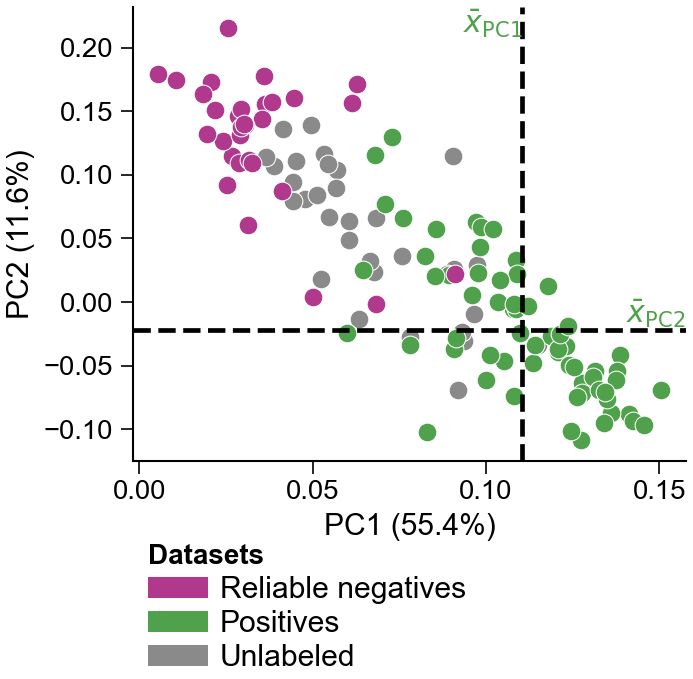
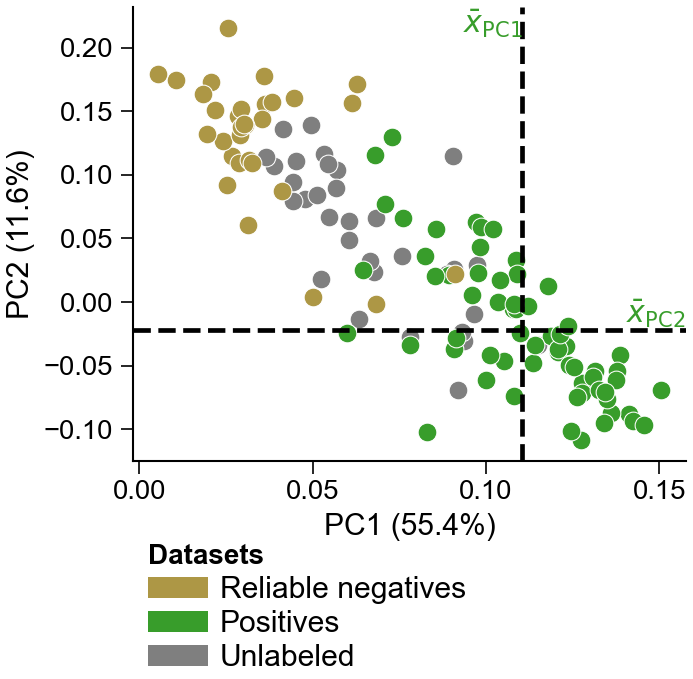
docs(cheatsheet): rename Feature Concept, fix dPULearn label semantics/colors, reorder panels
- Rename "Feature Ontology" panel to "CPP Feature Concept"; glossary "Feature" -> "Feature (CPP)".
- Move PU/label group chips under Prediction Task Levels with a "Groups:" label
  and an Output-types line; split the legend into negatives (magenta, COLOR_NEG)
  vs reliable negatives (gold, COLOR_REL_NEG) to match the package color constants.
- Fix dPULearn worked example: PU-encode labels (1/2) and use n_pos//2; drop the
  gen_plots.py magenta override so the PCA uses the canonical gold default;
  regenerate pca.png.
- Order capability families + module chooser along the analysis flow
  (Sequence Analysis -> Feature Engineering -> Modeling; dPULearn -> TreeModel -> ShapModel);
  add AAWindowSampler to the chooser.
- Drop "v1.1" overclaim from Protein Design; "Numerical" -> "Advanced Feature Sources";
  mark the SHAP example advanced; bracket [v1.1] statuses in the class table.

diff --git a/docs/source/_static/cheat_sheet.html b/docs/source/_static/cheat_sheet.html
@@ -34,10 +34,13 @@
   /* package TMD/JMD colours (ut.COLOR_TMD / ut.COLOR_JMD) */
   --c-tmd:   #00FA9A;
   --c-jmd:   #0000FF;
-  /* dPULearn label colours (chips + the dPULearnPlot.pca legend match) */
-  --c-pos:    #4FA24B;
-  --c-relneg: #B0398E;
-  --c-unl:    #8A8A8A;
+  /* Sample/label colours — match the package constants in utils.py
+     (COLOR_POS / COLOR_NEG / COLOR_REL_NEG / COLOR_UNL) and the
+     dPULearnPlot.pca legend. */
+  --c-pos:    #389d2b;
+  --c-neg:    #ad4570;
+  --c-relneg: #ad9745;
+  --c-unl:    #7f7f7f;
   /* neutral pill for non-relational tags */
   --pill-bg:  #8a93a0;
 }
@@ -206,10 +209,12 @@ table { width: 100%; border-collapse: collapse; }
 .anat-track .tmd { background: var(--c-tmd); color: #143b2a; flex: 1 1 auto; }
 .anat-coords { display: flex; justify-content: space-between; font-family: "AA Mono", monospace;
                font-size: 5.6pt; color: var(--ink-faint); }
-.chips { margin-top: 3px; }
+.chips { margin-top: 1px; }
+.chips .chips-label { font-size: 5.6pt; font-weight: 700; color: var(--ink-soft); margin-right: 4px; }
 .chips .chip { display: inline-block; font-size: 5.6pt; font-weight: 700; color: #fff;
                padding: 0 4px; border-radius: 6px; margin-right: 3px; }
-.chip.pos { background: var(--c-pos); } .chip.neg { background: var(--c-relneg); } .chip.unl { background: var(--c-unl); }
+.chip.pos { background: var(--c-pos); } .chip.neg { background: var(--c-neg); }
+.chip.relneg { background: var(--c-relneg); } .chip.unl { background: var(--c-unl); }
 
 /* ---- citations / glossary / misc ---------------------------------------- */
 .cite-item { padding: 2px 0; border-bottom: 1px solid var(--line-soft); }
@@ -311,6 +316,9 @@ df_scales = <span class="c-nm">aa.load_scales</span>()</pre></div>
           <div class="row"><b>unit:</b> whole chain (composition)</div>
           <div class="row"><b>ref:</b> labelled groups / composition-matched background</div>
         </div>
+        <div class="cap"><b>Output types:</b> classification · regression · ranking · explanation</div>
+        <div class="chips"><span class="chips-label">Groups:</span><span class="chip pos">1: positives</span><span class="chip neg">0: negatives</span><span class="chip relneg">0: reliable negatives</span><span class="chip unl">2: unlabeled</span></div>
+        <div class="cap">Label 0 is a curated <b>negative</b> in labelled data, or a dPULearn-inferred <b>reliable negative</b> drawn from the unlabeled (2) pool.</div>
       </div>
     </div>
 
@@ -321,12 +329,11 @@ df_scales = <span class="c-nm">aa.load_scales</span>()</pre></div>
         <div class="anat-track"><div class="seg jmd">JMD-N</div><div class="seg tmd">TMD</div><div class="seg jmd">JMD-C</div></div>
         <div class="anat-coords"><span>0</span><span>tmd_start</span><span>tmd_stop</span><span>len(seq)</span></div>
         <div class="cap">JMD widths set globally: aa.options[&#39;jmd_n_len&#39;] · [&#39;jmd_c_len&#39;].</div>
-        <div class="chips"><span class="chip pos">1: positives</span><span class="chip neg">0: rel-negatives</span><span class="chip unl">2: unlabeled</span></div>
       </div>
     </div>
 
     <div class="sec">
-      <div class="sec-h"><span>Feature Ontology</span><span class="hint">Part × Split × Scale</span></div>
+      <div class="sec-h"><span>CPP Feature Concept</span><span class="hint">Part × Split × Scale</span></div>
       <div class="sec-body">
         <div class="onto-row"><span class="h">PART</span> <span class="s">where on the sequence</span>
           <div class="it">tmd · jmd_n · jmd_c · tmd_jmd · jmd_n_tmd_n · tmd_c_jmd_c</div></div>
@@ -363,8 +370,9 @@ cpp = <span class="c-nm">aa.CPP</span>(df_parts=df_parts, split_kws=split_kws)</
       <div class="sec-h"><span>Which Module Should I Use?</span><span class="hint">intent → module</span></div>
       <div class="sec-body">
         <div class="cap-item"><span class="cw">Explore sequence patterns / composition →</span><span class="cs">AAlogo · AAlogoPlot</span></div>
-        <div class="cap-item"><span class="cw">Discover discriminative physicochemical features →</span><span class="cs">CPP · CPPPlot</span></div>
+        <div class="cap-item"><span class="cw">Sample reference windows (if negatives are missing) →</span><span class="cs">AAWindowSampler</span></div>
         <div class="cap-item"><span class="cw">Reduce redundant amino acid scales →</span><span class="cs">AAclust</span></div>
+        <div class="cap-item"><span class="cw">Discover discriminative physicochemical features →</span><span class="cs">CPP · CPPPlot</span></div>
         <div class="cap-item"><span class="cw">Train with positives + unlabeled data →</span><span class="cs">dPULearn</span></div>
         <div class="cap-item"><span class="cw">Train an interpretable classifier →</span><span class="cs">TreeModel</span></div>
         <div class="cap-item"><span class="cw">Explain a prediction (per feature / sample) →</span><span class="cs">ShapModel  [pro]</span></div>
@@ -382,6 +390,14 @@ cpp = <span class="c-nm">aa.CPP</span>(df_parts=df_parts, split_kws=split_kws)</
     <div class="cap-item"><span class="cw">Cluster redundant homologs</span><span class="cs">filter_seq(df_seq)  [pro]</span></div>
   </div>
 </div><div class="sec">
+  <div class="sec-h"><span>Sequence Analysis</span><span class="hint">logos · motifs</span></div>
+  <div class="sec-body">
+    <div class="cap-item"><span class="cw">Position-specific logo</span><span class="cs">AAlogo().get_df_logo(df_parts)</span></div>
+    <div class="cap-item"><span class="cw">Sample sequence windows</span><span class="cs">AAWindowSampler().sample(df_seq)</span></div>
+    <div class="cap-item"><span class="cw">Pairwise sequence similarity</span><span class="cs">comp_seq_sim(df_seq)  [pro]</span></div>
+    <div class="cap-item"><span class="cw">Scan motifs (FIMO / MEME)</span><span class="cs">scan_motif(df_seq, pwm)  [pro]</span></div>
+  </div>
+</div><div class="sec">
   <div class="sec-h"><span>Feature Engineering</span><span class="hint">parts · CPP · scales</span></div>
   <div class="sec-body">
     <div class="cap-item"><span class="cw">SequenceFeature  →  sf</span><span class="cs">sf = aa.SequenceFeature()</span></div>
@@ -394,7 +410,7 @@ cpp = <span class="c-nm">aa.CPP</span>(df_parts=df_parts, split_kws=split_kws)</
     <div class="cap-item"><span class="cw">Drop correlated features</span><span class="cs">NumericalFeature().filter_correlation(X)</span></div>
   </div>
 </div><div class="sec">
-  <div class="sec-h"><span>Numerical Feature Sources <span class="uc new">v1.1</span></span><span class="hint">PLM · structure · PTM</span></div>
+  <div class="sec-h"><span>Advanced Feature Sources <span class="uc new">v1.1</span></span><span class="hint">PLM · structure · PTM → numerical CPP</span></div>
   <div class="sec-body">
     <div class="cap-item"><span class="cw">PLM embeddings</span><span class="cs">EmbeddingPreprocessor().encode(...) → <span class="out">dict_num</span></span></div>
     <div class="cap-item"><span class="cw">Structure / DSSP / PAE</span><span class="cs">StructurePreprocessor().encode_dssp(...)  [pro]</span></div>
@@ -406,17 +422,9 @@ cpp = <span class="c-nm">aa.CPP</span>(df_parts=df_parts, split_kws=split_kws)</
 </div><div class="sec">
   <div class="sec-h"><span>Modeling &amp; Explainability</span><span class="hint"></span></div>
   <div class="sec-body">
+    <div class="cap-item"><span class="cw">Train with positives + unlabeled data</span><span class="cs">dPULearn().fit(X, labels)  [Wrapper]</span></div>
     <div class="cap-item"><span class="cw">Train + RFE + MC importance</span><span class="cs">TreeModel().fit(X, labels)  [Wrapper]</span></div>
-    <div class="cap-item"><span class="cw">Train with positives + unlabeled</span><span class="cs">dPULearn().fit(X, labels)  [Wrapper]</span></div>
     <div class="cap-item"><span class="cw">Per-feature / sample SHAP impact</span><span class="cs">ShapModel().fit(X, labels)  [pro]</span></div>
-  </div>
-</div><div class="sec">
-  <div class="sec-h"><span>Sequence Analysis</span><span class="hint">logos · motifs</span></div>
-  <div class="sec-body">
-    <div class="cap-item"><span class="cw">Position-specific logo</span><span class="cs">AAlogo().get_df_logo(df_parts)</span></div>
-    <div class="cap-item"><span class="cw">Sample sequence windows</span><span class="cs">AAWindowSampler().sample(df_seq)</span></div>
-    <div class="cap-item"><span class="cw">Pairwise sequence similarity</span><span class="cs">comp_seq_sim(df_seq)  [pro]</span></div>
-    <div class="cap-item"><span class="cw">Scan motifs (FIMO / MEME)</span><span class="cs">scan_motif(df_seq, pwm)  [pro]</span></div>
   </div>
 </div><div class="sec">
   <div class="sec-h"><span>Metrics &amp; Plotting</span><span class="hint">utilities</span></div>
@@ -428,7 +436,7 @@ cpp = <span class="c-nm">aa.CPP</span>(df_parts=df_parts, split_kws=split_kws)</
     <div class="cap-item"><span class="cw">Colours &amp; standalone legend</span><span class="cs">plot_get_clist(n) · plot_legend(ax)</span></div>
   </div>
 </div><div class="sec">
-  <div class="sec-h"><span>Protein Design <span class="uc">(to be extended)</span> <span class="uc new">v1.1</span></span><span class="hint"></span></div>
+  <div class="sec-h"><span>Protein Design <span class="uc">(to be extended)</span></span><span class="hint"></span></div>
   <div class="sec-body">
     <div class="cap-item"><span class="cw">In-silico point mutations</span><span class="cs">AAMut · AAMutPlot</span></div>
     <div class="cap-item"><span class="cw">Sequence-design libraries</span><span class="cs">SeqMut · SeqMutPlot</span></div>
@@ -505,9 +513,10 @@ plt.tight_layout(); plt.show()</pre>
 <div class="pair-imgs" style="--ph:44mm">
 <figure><img class="pair-img" src="cs_plots/feature_map.png" alt="CPP — feature map"><figcaption>CPPPlot.feature_map · all scales</figcaption></figure><figure><img class="pair-img" src="cs_plots/feature_map_simplified.png" alt="CPP — feature map"><figcaption>CPPPlot.feature_map · simplified</figcaption></figure>    </div>  </div>
 </div><div class="sec">
-  <div class="sec-h"><span>ShapModel — explain a prediction</span><span class="hint">sample level · [pro]</span></div>
+  <div class="sec-h"><span>ShapModel — explain a prediction</span><span class="hint">sample level · advanced · [pro]</span></div>
   <div class="sec-body">
-    <pre class="code"><span class="c-cm"># fuzzy labeling: APP&#x27;s label is its soft prediction score (0.6, not 1)</span>
+    <pre class="code"><span class="c-cm"># advanced: per-sample explanation (fuzzy labeling demo)</span>
+<span class="c-cm"># fuzzy labeling: APP&#x27;s label is its soft prediction score (0.6, not 1)</span>
 i = list(df_seq[<span class="c-st">&#x27;entry&#x27;</span>]).index(<span class="c-st">&#x27;P05067&#x27;</span>)   <span class="c-cm"># APP</span>
 y = [float(v) for v in labels]; y[i] = 0.6
 sm = <span class="c-nm">aa.ShapModel</span>(); sm.fit(X, labels=y, fuzzy_labeling=True)
@@ -533,14 +542,15 @@ aac_plot.centers(X, labels=aac.labels_)
 plt.tight_layout(); plt.show()</pre>
     <div class="pair-note">▼ figure below · left</div></div>
   <div class="sec-h"><span>dPULearn — PCA</span><span class="hint">reliable negatives · Wrapper</span></div>
-  <div class="sec-body"><pre class="code"><span class="c-cm"># labels: 1 = positive, 2 = unlabeled</span>
-n_pos = sum(np.array(labels) == 1)
+  <div class="sec-body"><pre class="code"><span class="c-cm"># DOM_GSEC ships 1/0 — encode as PU labels: 1 = positive, 2 = unlabeled</span>
+labels_pu = [1 if x == 1 else 2 for x in labels]
+n_pos = sum(np.array(labels_pu) == 1)
 dpul = <span class="c-nm">aa.dPULearn</span>()
-dpul.fit(X=X, labels=labels, n_unl_to_neg=n_pos)
+dpul.fit(X=X, labels=labels_pu, n_unl_to_neg=n_pos // 2)
 df_pu = dpul.df_pu_   <span class="c-cm"># 1 pos · 0 rel-neg · 2 unl</span>
 
 dpul_plot = <span class="c-nm">aa.dPULearnPlot</span>()
-dpul_plot.pca(df_pu=df_pu, labels=labels)
+dpul_plot.pca(df_pu=df_pu, labels=dpul.labels_)
 plt.tight_layout(); plt.show()</pre>
     <div class="pair-note">▼ figure below · right</div></div>
   <div class="pair-imgs" style="--ph:37mm">
@@ -599,7 +609,7 @@ plt.tight_layout(); plt.show()</pre></div>
     <div class="sec">
       <div class="sec-h"><span>Class ↔ Plot Class</span><span class="hint">mirrored API</span></div>
       <div class="sec-body"><table class="kv">
-<tr><td class="k">SequencePreprocessor</td><td class="d mono">—</td><td class="d" style="text-align:right"></td></tr><tr><td class="k">EmbeddingPreprocessor</td><td class="d mono">—</td><td class="d" style="text-align:right">v1.1</td></tr><tr><td class="k">StructurePreprocessor  [pro]</td><td class="d mono">—</td><td class="d" style="text-align:right">v1.1</td></tr><tr><td class="k">AnnotationPreprocessor  [pro]</td><td class="d mono">—</td><td class="d" style="text-align:right">v1.1</td></tr><tr><td class="k">CPP</td><td class="d mono">CPPPlot</td><td class="d" style="text-align:right"></td></tr><tr><td class="k">AAclust</td><td class="d mono">AAclustPlot</td><td class="d" style="text-align:right">Wrapper</td></tr><tr><td class="k">AAlogo</td><td class="d mono">AAlogoPlot</td><td class="d" style="text-align:right"></td></tr><tr><td class="k">dPULearn</td><td class="d mono">dPULearnPlot</td><td class="d" style="text-align:right">Wrapper</td></tr><tr><td class="k">TreeModel</td><td class="d mono">—</td><td class="d" style="text-align:right">Wrapper</td></tr><tr><td class="k">ShapModel  [pro]</td><td class="d mono">—</td><td class="d" style="text-align:right">Wrapper</td></tr><tr><td class="k">AAMut</td><td class="d mono">AAMutPlot</td><td class="d" style="text-align:right">to be extended</td></tr><tr><td class="k">SeqMut</td><td class="d mono">SeqMutPlot</td><td class="d" style="text-align:right">to be extended</td></tr><tr><td class="k">AAWindowSampler</td><td class="d mono">—</td><td class="d" style="text-align:right"></td></tr><tr><td class="k">SequenceFeature</td><td class="d mono">—</td><td class="d" style="text-align:right"></td></tr><tr><td class="k">NumericalFeature</td><td class="d mono">—</td><td class="d" style="text-align:right"></td></tr>      </table></div>
+<tr><td class="k">SequencePreprocessor</td><td class="d mono">—</td><td class="d" style="text-align:right"></td></tr><tr><td class="k">EmbeddingPreprocessor</td><td class="d mono">—</td><td class="d" style="text-align:right">[v1.1]</td></tr><tr><td class="k">StructurePreprocessor  [pro]</td><td class="d mono">—</td><td class="d" style="text-align:right">[v1.1]</td></tr><tr><td class="k">AnnotationPreprocessor  [pro]</td><td class="d mono">—</td><td class="d" style="text-align:right">[v1.1]</td></tr><tr><td class="k">CPP</td><td class="d mono">CPPPlot</td><td class="d" style="text-align:right"></td></tr><tr><td class="k">AAclust</td><td class="d mono">AAclustPlot</td><td class="d" style="text-align:right">Wrapper</td></tr><tr><td class="k">AAlogo</td><td class="d mono">AAlogoPlot</td><td class="d" style="text-align:right"></td></tr><tr><td class="k">dPULearn</td><td class="d mono">dPULearnPlot</td><td class="d" style="text-align:right">Wrapper</td></tr><tr><td class="k">TreeModel</td><td class="d mono">—</td><td class="d" style="text-align:right">Wrapper</td></tr><tr><td class="k">ShapModel  [pro]</td><td class="d mono">—</td><td class="d" style="text-align:right">Wrapper</td></tr><tr><td class="k">AAMut</td><td class="d mono">AAMutPlot</td><td class="d" style="text-align:right">to be extended</td></tr><tr><td class="k">SeqMut</td><td class="d mono">SeqMutPlot</td><td class="d" style="text-align:right">to be extended</td></tr><tr><td class="k">AAWindowSampler</td><td class="d mono">—</td><td class="d" style="text-align:right"></td></tr><tr><td class="k">SequenceFeature</td><td class="d mono">—</td><td class="d" style="text-align:right"></td></tr><tr><td class="k">NumericalFeature</td><td class="d mono">—</td><td class="d" style="text-align:right"></td></tr>      </table></div>
     </div>
 
     <div class="sec">
@@ -621,7 +631,7 @@ plt.tight_layout(); plt.show()</pre></div>
     <div class="sec gloss-wide">
       <div class="sec-h"><span>Glossary</span><span class="hint">canonical vocabulary · CONTEXT.md</span></div>
       <div class="sec-body gloss-cols">
-<div class="gloss-item"><b>Prediction level</b> — Residue (AA_*) · Domain (DOM_*) · Protein (SEQ_*) — the unit a task predicts at; sets the dataset, the part, and the reference.</div><div class="gloss-item"><b>Part</b> — Named segment used as feature input: tmd, jmd_n, jmd_c, tmd_jmd, jmd_n_tmd_n, tmd_c_jmd_c.</div><div class="gloss-item"><b>Split</b> — How a scale is read across a part: Segment (contiguous), Pattern (sparse), PeriodicPattern (i, i+3/4).</div><div class="gloss-item"><b>Scale</b> — AA → ℝ mapping. AAontology ships ~600 curated scales in two-level categories.</div><div class="gloss-item"><b>Feature</b> — (Part × Split × Scale) — the atomic, residue-grounded, interpretable unit of CPP.</div><div class="gloss-item"><b>Compositional vs positional</b> — How split_kws resolves locality: a whole-part average (compositional) vs sub-region/position-resolved (positional).</div><div class="gloss-item"><b>df_seq</b> — Sequence table: entry, sequence, label, TMD bounds (tmd_start, tmd_stop).</div><div class="gloss-item"><b>df_parts</b> — Wide table — one column per part (tmd, jmd_n, jmd_c, …).</div><div class="gloss-item"><b>df_feat</b> — Ranked features: feature, abs_auc, mean_dif, p_val, positions, scale, category.</div><div class="gloss-item"><b>Wrapper</b> — sklearn-style class — .fit / .predict / .eval, sets trailing *_ attributes after fit.</div><div class="gloss-item"><b>Plot class</b> — *Plot mirror of an analytical class — same arguments, visualization only.</div><div class="gloss-item"><b>PU labels</b> — dPULearn input: 1 = positive, 2 = unlabeled. Output: 1 / 0 (reliable-negative) / 2.</div><div class="gloss-item"><b>CPP</b> — Comparative Physicochemical Profiling — discovers ranked Part × Split × Scale features.</div><div class="gloss-item"><b>AAontology</b> — Two-level scale taxonomy; CPP uses its categories to organize and rank features.</div>      </div>
+<div class="gloss-item"><b>Prediction level</b> — Residue (AA_*) · Domain (DOM_*) · Protein (SEQ_*) — the unit a task predicts at; sets the dataset, the part, and the reference.</div><div class="gloss-item"><b>Part</b> — Named segment used as feature input: tmd, jmd_n, jmd_c, tmd_jmd, jmd_n_tmd_n, tmd_c_jmd_c.</div><div class="gloss-item"><b>Split</b> — How a scale is read across a part: Segment (contiguous), Pattern (sparse), PeriodicPattern (i, i+3/4).</div><div class="gloss-item"><b>Scale</b> — AA → ℝ mapping. AAontology ships ~600 curated scales in two-level categories.</div><div class="gloss-item"><b>Feature (CPP)</b> — (Part × Split × Scale) — the atomic, residue-grounded, interpretable unit of CPP.</div><div class="gloss-item"><b>Compositional vs positional</b> — How split_kws resolves locality: a whole-part average (compositional) vs sub-region/position-resolved (positional).</div><div class="gloss-item"><b>df_seq</b> — Sequence table: entry, sequence, label, TMD bounds (tmd_start, tmd_stop).</div><div class="gloss-item"><b>df_parts</b> — Wide table — one column per part (tmd, jmd_n, jmd_c, …).</div><div class="gloss-item"><b>df_feat</b> — Ranked features: feature, abs_auc, mean_dif, p_val, positions, scale, category.</div><div class="gloss-item"><b>Wrapper</b> — sklearn-style class — .fit / .predict / .eval, sets trailing *_ attributes after fit.</div><div class="gloss-item"><b>Plot class</b> — *Plot mirror of an analytical class — same arguments, visualization only.</div><div class="gloss-item"><b>PU labels</b> — dPULearn input: 1 = positive, 2 = unlabeled. Output: 1 / 0 (reliable-negative) / 2.</div><div class="gloss-item"><b>CPP</b> — Comparative Physicochemical Profiling — discovers ranked Part × Split × Scale features.</div><div class="gloss-item"><b>AAontology</b> — Two-level scale taxonomy; CPP uses its categories to organize and rank features.</div>      </div>
     </div>
 
   </div>

diff --git a/docs/_cheatsheet/cheat_sheet.css b/docs/_cheatsheet/cheat_sheet.css
@@ -29,10 +29,13 @@
   /* package TMD/JMD colours (ut.COLOR_TMD / ut.COLOR_JMD) */
   --c-tmd:   #00FA9A;
   --c-jmd:   #0000FF;
-  /* dPULearn label colours (chips + the dPULearnPlot.pca legend match) */
-  --c-pos:    #4FA24B;
-  --c-relneg: #B0398E;
-  --c-unl:    #8A8A8A;
+  /* Sample/label colours — match the package constants in utils.py
+     (COLOR_POS / COLOR_NEG / COLOR_REL_NEG / COLOR_UNL) and the
+     dPULearnPlot.pca legend. */
+  --c-pos:    #389d2b;
+  --c-neg:    #ad4570;
+  --c-relneg: #ad9745;
+  --c-unl:    #7f7f7f;
   /* neutral pill for non-relational tags */
   --pill-bg:  #8a93a0;
 }
@@ -201,10 +204,12 @@ table { width: 100%; border-collapse: collapse; }
 .anat-track .tmd { background: var(--c-tmd); color: #143b2a; flex: 1 1 auto; }
 .anat-coords { display: flex; justify-content: space-between; font-family: "AA Mono", monospace;
                font-size: 5.6pt; color: var(--ink-faint); }
-.chips { margin-top: 3px; }
+.chips { margin-top: 1px; }
+.chips .chips-label { font-size: 5.6pt; font-weight: 700; color: var(--ink-soft); margin-right: 4px; }
 .chips .chip { display: inline-block; font-size: 5.6pt; font-weight: 700; color: #fff;
                padding: 0 4px; border-radius: 6px; margin-right: 3px; }
-.chip.pos { background: var(--c-pos); } .chip.neg { background: var(--c-relneg); } .chip.unl { background: var(--c-unl); }
+.chip.pos { background: var(--c-pos); } .chip.neg { background: var(--c-neg); }
+.chip.relneg { background: var(--c-relneg); } .chip.unl { background: var(--c-unl); }
 
 /* ---- citations / glossary / misc ---------------------------------------- */
 .cite-item { padding: 2px 0; border-bottom: 1px solid var(--line-soft); }

diff --git a/docs/_cheatsheet/content.py b/docs/_cheatsheet/content.py
@@ -104,11 +104,14 @@ CPP_STRATEGIES = {
     "note": "Domain level uses both. → CPP strategies: see the CPP tutorial (docs).",
 }
 
-# Beginner decision flow: user intent -> the module to reach for.
+# Beginner decision flow: user intent -> the module to reach for. Ordered to
+# follow the RTD API subpackages — Sequence Analysis, Feature Engineering,
+# PU Learning, Explainable AI — while keeping the intent -> key-class mapping.
 WHICH_MODULE = [
     ("Explore sequence patterns / composition", "AAlogo · AAlogoPlot"),
-    ("Discover discriminative physicochemical features", "CPP · CPPPlot"),
+    ("Sample reference windows (if negatives are missing)", "AAWindowSampler"),
     ("Reduce redundant amino acid scales", "AAclust"),
+    ("Discover discriminative physicochemical features", "CPP · CPPPlot"),
     ("Train with positives + unlabeled data", "dPULearn"),
     ("Train an interpretable classifier", "TreeModel"),
     ("Explain a prediction (per feature / sample)", "ShapModel  [pro]"),
@@ -157,6 +160,13 @@ CAPABILITY_FAMILIES = [
          ("Encode sequences (one-hot / int)", "SequencePreprocessor().encode_*(seqs)", None),
          ("Cluster redundant homologs", "filter_seq(df_seq)  [pro]", None),
      ]},
+    {"name": "Sequence Analysis", "tag": "logos · motifs",
+     "rows": [
+         ("Position-specific logo", "AAlogo().get_df_logo(df_parts)", None),
+         ("Sample sequence windows", "AAWindowSampler().sample(df_seq)", None),
+         ("Pairwise sequence similarity", "comp_seq_sim(df_seq)  [pro]", None),
+         ("Scan motifs (FIMO / MEME)", "scan_motif(df_seq, pwm)  [pro]", None),
+     ]},
     {"name": "Feature Engineering", "tag": "parts · CPP · scales", "flagship": True,
      "rows": [
          ("SequenceFeature  →  sf", "sf = aa.SequenceFeature()", None),
@@ -168,7 +178,7 @@ CAPABILITY_FAMILIES = [
          ("Reduce redundant scales", "AAclust().fit(X)  [Wrapper]", None),
          ("Drop correlated features", "NumericalFeature().filter_correlation(X)", None),
      ]},
-    {"name": "Numerical Feature Sources", "tag": "PLM · structure · PTM", "new": True,
+    {"name": "Advanced Feature Sources", "tag": "PLM · structure · PTM → numerical CPP", "new": True,
      "rows": [
          ("PLM embeddings", "EmbeddingPreprocessor().encode(...) → dict_num", None),
          ("Structure / DSSP / PAE", "StructurePreprocessor().encode_dssp(...)  [pro]", None),
@@ -179,16 +189,9 @@ CAPABILITY_FAMILIES = [
      ]},
     {"name": "Modeling & Explainability", "tag": "",
      "rows": [
+         ("Train with positives + unlabeled data", "dPULearn().fit(X, labels)  [Wrapper]", None),
          ("Train + RFE + MC importance", "TreeModel().fit(X, labels)  [Wrapper]", None),
-         ("Train with positives + unlabeled", "dPULearn().fit(X, labels)  [Wrapper]", None),
          ("Per-feature / sample SHAP impact", "ShapModel().fit(X, labels)  [pro]", None),
-     ]},
-    {"name": "Sequence Analysis", "tag": "logos · motifs",
-     "rows": [
-         ("Position-specific logo", "AAlogo().get_df_logo(df_parts)", None),
-         ("Sample sequence windows", "AAWindowSampler().sample(df_seq)", None),
-         ("Pairwise sequence similarity", "comp_seq_sim(df_seq)  [pro]", None),
-         ("Scan motifs (FIMO / MEME)", "scan_motif(df_seq, pwm)  [pro]", None),
      ]},
     {"name": "Metrics & Plotting", "tag": "utilities",
      "rows": [
@@ -199,7 +202,7 @@ CAPABILITY_FAMILIES = [
          ("Colours & standalone legend", "plot_get_clist(n) · plot_legend(ax)", None),
      ]},
     {"name": "Protein Design", "tag": "",
-     "under_construction": True, "new": True,
+     "under_construction": True,
      "rows": [
          ("In-silico point mutations", "AAMut · AAMutPlot", None),
          ("Sequence-design libraries", "SeqMut · SeqMutPlot", None),
@@ -257,10 +260,11 @@ FLAGSHIP_RECIPES = [
              "df_feat = cpp.simplify(df_feat=df_feat, labels=labels)\n"
              "cpp_plot.feature_map(df_feat=df_feat)            # right\n"
              "plt.tight_layout(); plt.show()"},
-    {"cls": "ShapModel — explain a prediction", "tag": "sample level · [pro]",
+    {"cls": "ShapModel — explain a prediction", "tag": "sample level · advanced · [pro]",
      "imgs": ["shap_profile", "feature_map_shap"],
      "img_labels": ["CPPPlot.profile · SHAP", "CPPPlot.feature_map · SHAP"], "h": 36,
-     "code": "# fuzzy labeling: APP's label is its soft prediction score (0.6, not 1)\n"
+     "code": "# advanced: per-sample explanation (fuzzy labeling demo)\n"
+             "# fuzzy labeling: APP's label is its soft prediction score (0.6, not 1)\n"
              "i = list(df_seq['entry']).index('P05067')   # APP\n"
              "y = [float(v) for v in labels]; y[i] = 0.6\n"
              "sm = aa.ShapModel(); sm.fit(X, labels=y, fuzzy_labeling=True)\n"
@@ -284,14 +288,15 @@ FLAGSHIP_RECIPES = [
              "plt.tight_layout(); plt.show()"},
     {"cls": "dPULearn — PCA", "tag": "reliable negatives · Wrapper", "img": "pca",
      "caption": "dPULearnPlot.pca · reliable negatives",
-     "code": "# labels: 1 = positive, 2 = unlabeled\n"
-             "n_pos = sum(np.array(labels) == 1)\n"
+     "code": "# DOM_GSEC ships 1/0 — encode as PU labels: 1 = positive, 2 = unlabeled\n"
+             "labels_pu = [1 if x == 1 else 2 for x in labels]\n"
+             "n_pos = sum(np.array(labels_pu) == 1)\n"
              "dpul = aa.dPULearn()\n"
-             "dpul.fit(X=X, labels=labels, n_unl_to_neg=n_pos)\n"
+             "dpul.fit(X=X, labels=labels_pu, n_unl_to_neg=n_pos // 2)\n"
              "df_pu = dpul.df_pu_   # 1 pos · 0 rel-neg · 2 unl\n"
              "\n"
              "dpul_plot = aa.dPULearnPlot()\n"
-             "dpul_plot.pca(df_pu=df_pu, labels=labels)\n"
+             "dpul_plot.pca(df_pu=df_pu, labels=dpul.labels_)\n"
              "plt.tight_layout(); plt.show()"},
 ]
 
@@ -349,9 +354,9 @@ OPTIONS = (
 # (class, plot class | "—", kind tag)
 CLASS_PLOT = [
     ("SequencePreprocessor", "—", ""),
-    ("EmbeddingPreprocessor", "—", "v1.1"),
-    ("StructurePreprocessor  [pro]", "—", "v1.1"),
-    ("AnnotationPreprocessor  [pro]", "—", "v1.1"),
+    ("EmbeddingPreprocessor", "—", "[v1.1]"),
+    ("StructurePreprocessor  [pro]", "—", "[v1.1]"),
+    ("AnnotationPreprocessor  [pro]", "—", "[v1.1]"),
     ("CPP", "CPPPlot", ""),
     ("AAclust", "AAclustPlot", "Wrapper"),
     ("AAlogo", "AAlogoPlot", ""),
@@ -396,7 +401,7 @@ GLOSSARY = [
      "(sparse), PeriodicPattern (i, i+3/4)."),
     ("Scale", "AA → ℝ mapping. AAontology ships ~600 curated scales in two-level "
      "categories."),
-    ("Feature", "(Part × Split × Scale) — the atomic, residue-grounded, "
+    ("Feature (CPP)", "(Part × Split × Scale) — the atomic, residue-grounded, "
      "interpretable unit of CPP."),
     ("Compositional vs positional", "How split_kws resolves locality: a whole-part "
      "average (compositional) vs sub-region/position-resolved (positional)."),
@@ -420,10 +425,13 @@ GLOSSARY = [
 FOOTER_NOTE = ("Layered seeds: seed= (call) ▸ random_state= (init) ▸ "
                "aa.options['random_state'] ▸ default.")
 
+PREDICTION_OUTPUTS = "classification · regression · ranking · explanation"
+
 CONTENT = {
     "meta": META,
     "golden_workflow": GOLDEN_WORKFLOW,
     "prediction_levels": PREDICTION_LEVELS,
+    "prediction_outputs": PREDICTION_OUTPUTS,
     "feature_ontology": FEATURE_ONTOLOGY,
     "cpp_strategies": CPP_STRATEGIES,
     "sequence_anatomy": SEQUENCE_ANATOMY,

diff --git a/docs/_cheatsheet/gen_plots.py b/docs/_cheatsheet/gen_plots.py
@@ -110,9 +110,10 @@ def main():
     dpul = aa.dPULearn(verbose=False)
     dpul.fit(X, labels=labels_pu, n_unl_to_neg=n_pos // 2)
     aa.plot_settings(font_scale=0.8)
-    # match the cheat-sheet PU-label chips: 0 rel-neg=magenta, 1 pos=green, 2 unl=grey
+    # use the package's canonical sample colours (COLOR_REL_NEG gold, COLOR_POS
+    # green, COLOR_UNL grey) — the dPULearnPlot.pca default — so the figure and
+    # the cheat-sheet "Groups" chips agree with what the library actually plots.
     aa.dPULearnPlot().pca(df_pu=dpul.df_pu_, labels=dpul.labels_,
-                          colors=["#B0398E", "#4FA24B", "#8A8A8A"],
                           names=["Reliable negatives", "Positives", "Unlabeled"])
     _save("pca")
 

diff --git a/docs/source/index/cheat_sheet.rst b/docs/source/index/cheat_sheet.rst
@@ -1,0 +1,26 @@
+.. _cheat_sheet:
+
+Cheat Sheet
+===========
+
+A one-glance reference to the canonical AAanalysis workflow, the main classes
+grouped by capability, the prediction levels (residue / domain / protein), and
+the feature ontology (*Part × Split × Scale*). Every code snippet uses the
+public API and the canonical vocabulary.
+
+.. raw:: html
+
+   <p>
+     <a class="reference download internal" href="../_static/cheat_sheet.pdf"
+        download style="font-weight:600; margin-right:1.2em;">⬇ Download PDF (3 pages)</a>
+     <a class="reference external" href="../_static/cheat_sheet.html"
+        target="_blank" rel="noopener">↗ Open the cheat sheet full-screen</a>
+   </p>
+   <iframe src="../_static/cheat_sheet.html" title="AAanalysis cheat sheet"
+           style="width:100%; height:80vh; border:1px solid #e3e7ec; border-radius:4px;"
+           loading="lazy"></iframe>
+
+.. only:: latex
+
+   The interactive cheat sheet is available in the HTML documentation and as a
+   downloadable PDF.